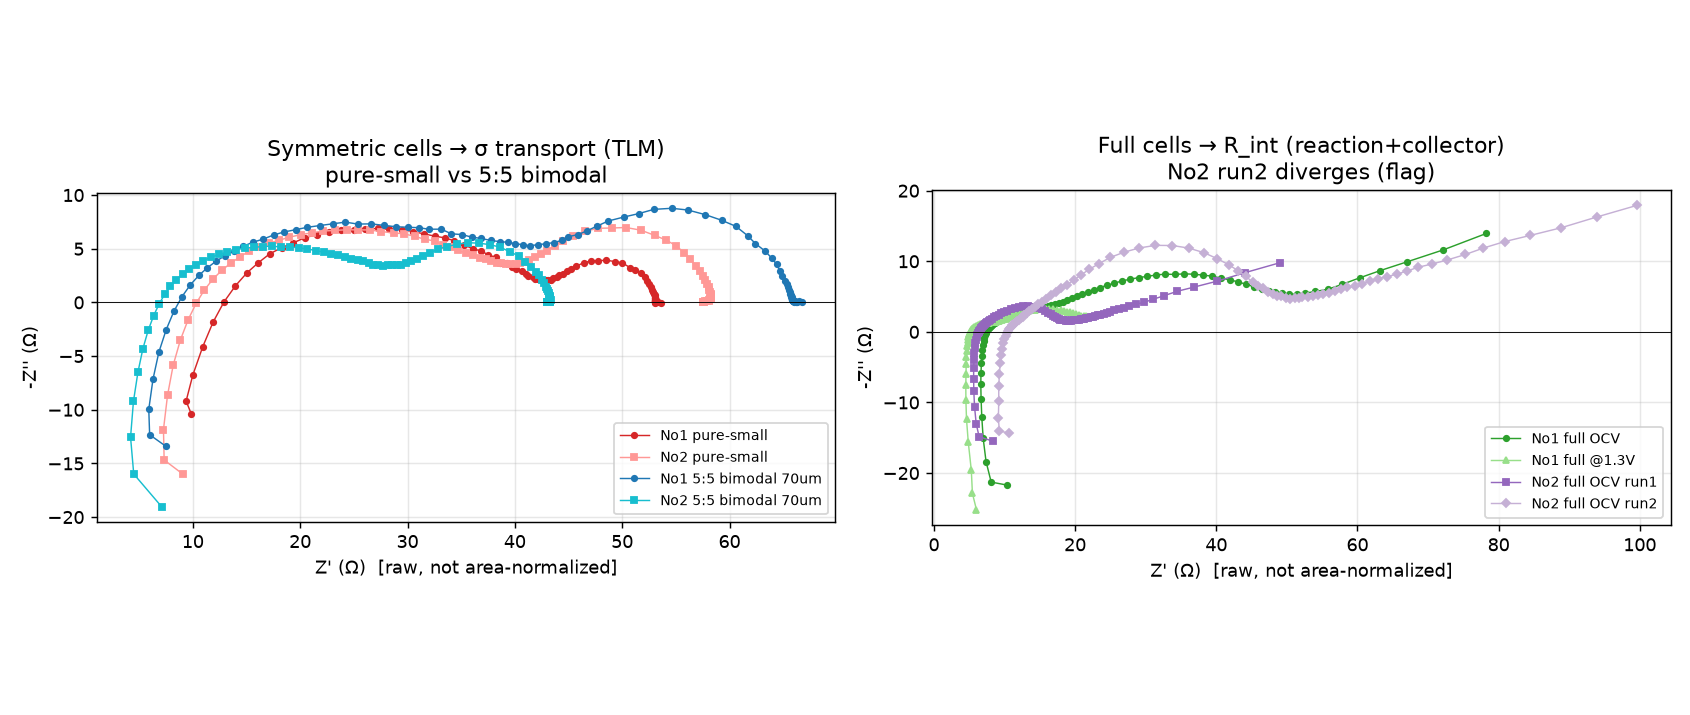
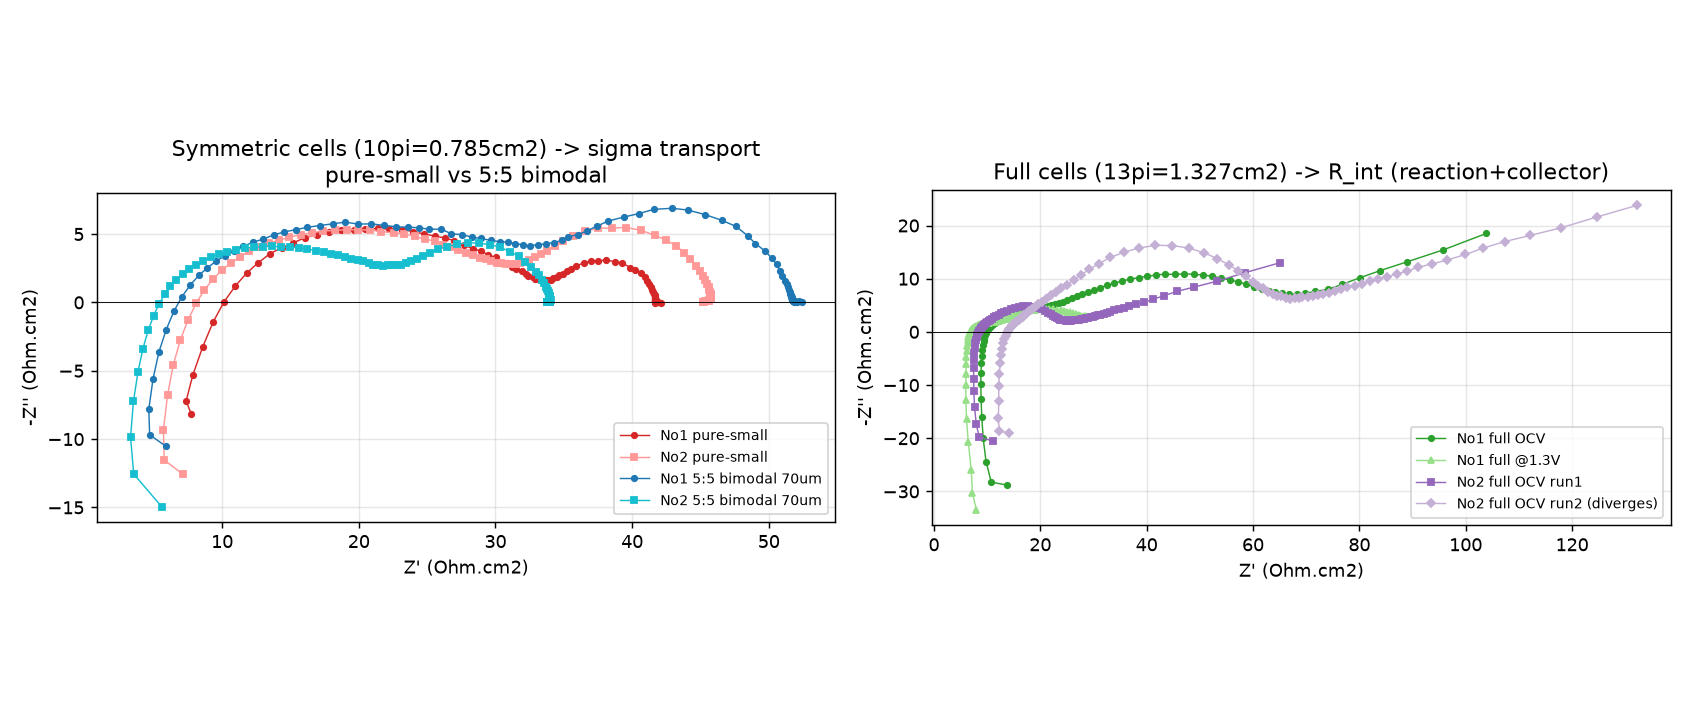
data: EIS 아카이브 면적 정규화 (Ω·cm²) + 제조/셀 정보 (부사수 노트 반영)
부사수 실험노트(2026-06-25~07-19)로 셀 지오메트리 확정 → 면적 정규화 해소:
대칭셀 10pi=0.7854 cm² / full(율특·수명) 13pi=1.3273 cm².  eis_archive.py에
_area_cm2 추가, 카탈로그에 area_cm2 + R_s/Re_LF/arc_ohmcm2 컬럼.

README에 제조 확정 반영: 80:18:1:1, vortex→PTFE→ball-mill 1h→Thinky 2000rpm 5min→
hot-roll→primer-SUS roll-press, 면용량3, Li-In/60°C/0.1C 2cyc→0.2C, No.1/No.2=소립
4µm SC·Poly=대립, 5:5 비용량 202.95/206.5 mAh/g.  overview 그림 Ω·cm²로 갱신.

⚠ 순수-소립 대칭셀 두께 미기재(σ 변환에 필요) · No2_full run2 발산 · 대칭셀 blocking
조건 미확인 — 남은 확인 항목.

diff --git a/scripts/eis_archive.py b/scripts/eis_archive.py
@@ -51,6 +51,16 @@ _FIELD_MAP = [
     ('I_mA', '<I>/mA'), ('cycle', 'cycle number'),
 ]
 
+# Electrode disk diameter by cell type (lab notes 2026-06: 대칭셀=10pi, 율특/수명=13pi).
+# Ω → Ω·cm² = Ω × area.  Inferred from cell geometry, NOT per-file measured.
+_PI_DIAM_MM = {'symmetric': 10.0, 'full': 13.0}
+
+
+def _area_cm2(cell_type):
+    import math
+    d = _PI_DIAM_MM.get(cell_type)
+    return round(math.pi * (d / 2.0 / 10.0) ** 2, 4) if d else None
+
 
 def _load_biologic():
     """Return the galvani BioLogic module, or None (with a message)."""
@@ -156,7 +166,8 @@ def main():
     rows = []
     cat_cols = ['filename', 'date', 'sample', 'blend', 'thickness_um', 'cell_type',
                 'cycle', 'state', 'technique', 'run', 'n_points', 'f_max_Hz', 'f_min_Hz',
-                'R_s_ohm', 'Re_LF_ohm', 'arc_ohm', 'extracted_csv', 'note']
+                'area_cm2', 'R_s_ohm', 'Re_LF_ohm', 'arc_ohm',
+                'R_s_ohmcm2', 'Re_LF_ohmcm2', 'arc_ohmcm2', 'extracted_csv', 'note']
     for fn in mprs:
         stem = fn[:-4]
         meta = parse_name(stem)
@@ -171,6 +182,12 @@ def main():
         elif os.path.exists(out_csv):
             note = 'cached_csv (galvani absent)'
         meta.update(desc)
+        area = _area_cm2(meta['cell_type'])          # Ω → Ω·cm² via disk area (10pi sym / 13pi full)
+        meta['area_cm2'] = area if area else ''
+        for k_ohm, k_asr in (('R_s_ohm', 'R_s_ohmcm2'), ('Re_LF_ohm', 'Re_LF_ohmcm2'),
+                             ('arc_ohm', 'arc_ohmcm2')):
+            v = meta.get(k_ohm, '')
+            meta[k_asr] = round(float(v) * area, 2) if (area and v != '') else ''
         meta['extracted_csv'] = os.path.relpath(out_csv, ARCHIVE) if os.path.exists(out_csv) else ''
         meta['note'] = note
         rows.append(meta)

diff --git a/docs/data/eis_measurements/README.md b/docs/data/eis_measurements/README.md
@@ -33,12 +33,23 @@ archive fully usable without it.)
   **EIS-TLM method** (Siroma/Minnmann 2021) our σ_ionic calibration references.  Lets us
   compare **pure-small vs bimodal(5:5)** transport directly → validates **STEP3** σ network.
 
+## Cell fabrication (lab notes 2026-06-25 → 07-19)
+- **Composition** AM:SE:VGCF:PTFE = **80:18:1:1**.  Recipe: vortex 10 min → add PTFE →
+  ball-mill 1 h → Thinky 2000 rpm 5 min → hot-plate rolling → roll-press onto **primer-coated
+  SUS** collector.  **Areal capacity target = 3 mAh cm⁻²**.
+- **AM**: No.1 / No.2 = **소립 4 µm single-crystal**; **Poly** = large polycrystalline.
+  **5:5** = poly:small = 5:5 wt%.  Specific capacity (5:5): No.1 = 202.95, No.2 = 206.5 mAh g⁻¹.
+- **Cells**: Li-In anode, 60 °C, 0.1C 2 cyc → 0.2C main.  **대칭셀(symmetric) = 10pi (⌀10 mm)**,
+  **율특셀(rate)·수명셀(life, EIS source) = 13pi (⌀13 mm)**.
+- **Thickness** (primer-SUS ~15 µm excluded where noted): 5:5 sym = **70 µm** (in filename);
+  pure-small 면용량2 sym ≈ 50 µm.  ⚠ per-cell thickness for the 260715 pure-small sym is not
+  in the notes — **needed to convert a symmetric-cell arc to σ** (σ = L / (R·3) for a blocking TLM).
+
 ## ⚠ Units / caveats (read before anchoring)
-1. **Raw impedances are in Ω, NOT Ω·cm².**  The `.mps` `Electrode surface area` is a
-   placeholder (`0.001 cm2`), so no area normalization was applied.  To compare with
-   manuscript R_int (Ω·cm²) multiply by the **true electrode area** (⌀ / cm²) — *pending
-   from the user.*  (A ⌀10 mm ≈ 0.785 cm² would map No.1 full 78 Ω → ~61 Ω·cm², matching
-   Fig S20 pristine ~60–90 Ω·cm² — plausible but unconfirmed.)
+1. **Area normalization — RESOLVED (Ω·cm² now in catalog).**  Areas inferred from disk
+   geometry (lab notes): **symmetric 10pi → 0.7854 cm²**, **full 13pi → 1.3273 cm²**;
+   `*_ohmcm2 = *_ohm × area`.  (The `.mps` `Electrode surface area` 0.001 cm² is a placeholder
+   and was ignored.)  Areas are inferred from cell type, not measured per file.
 2. **`R_s / Re_LF / arc` in the catalog are quick descriptors, not a circuit fit.**
    `R_s` = high-freq real-axis intercept (bulk+series); `arc` = `Re_LF − R_s`
    (interfacial **+** diffusion, not yet separated).  Proper **R_ion/R_int/R_w** needs a
